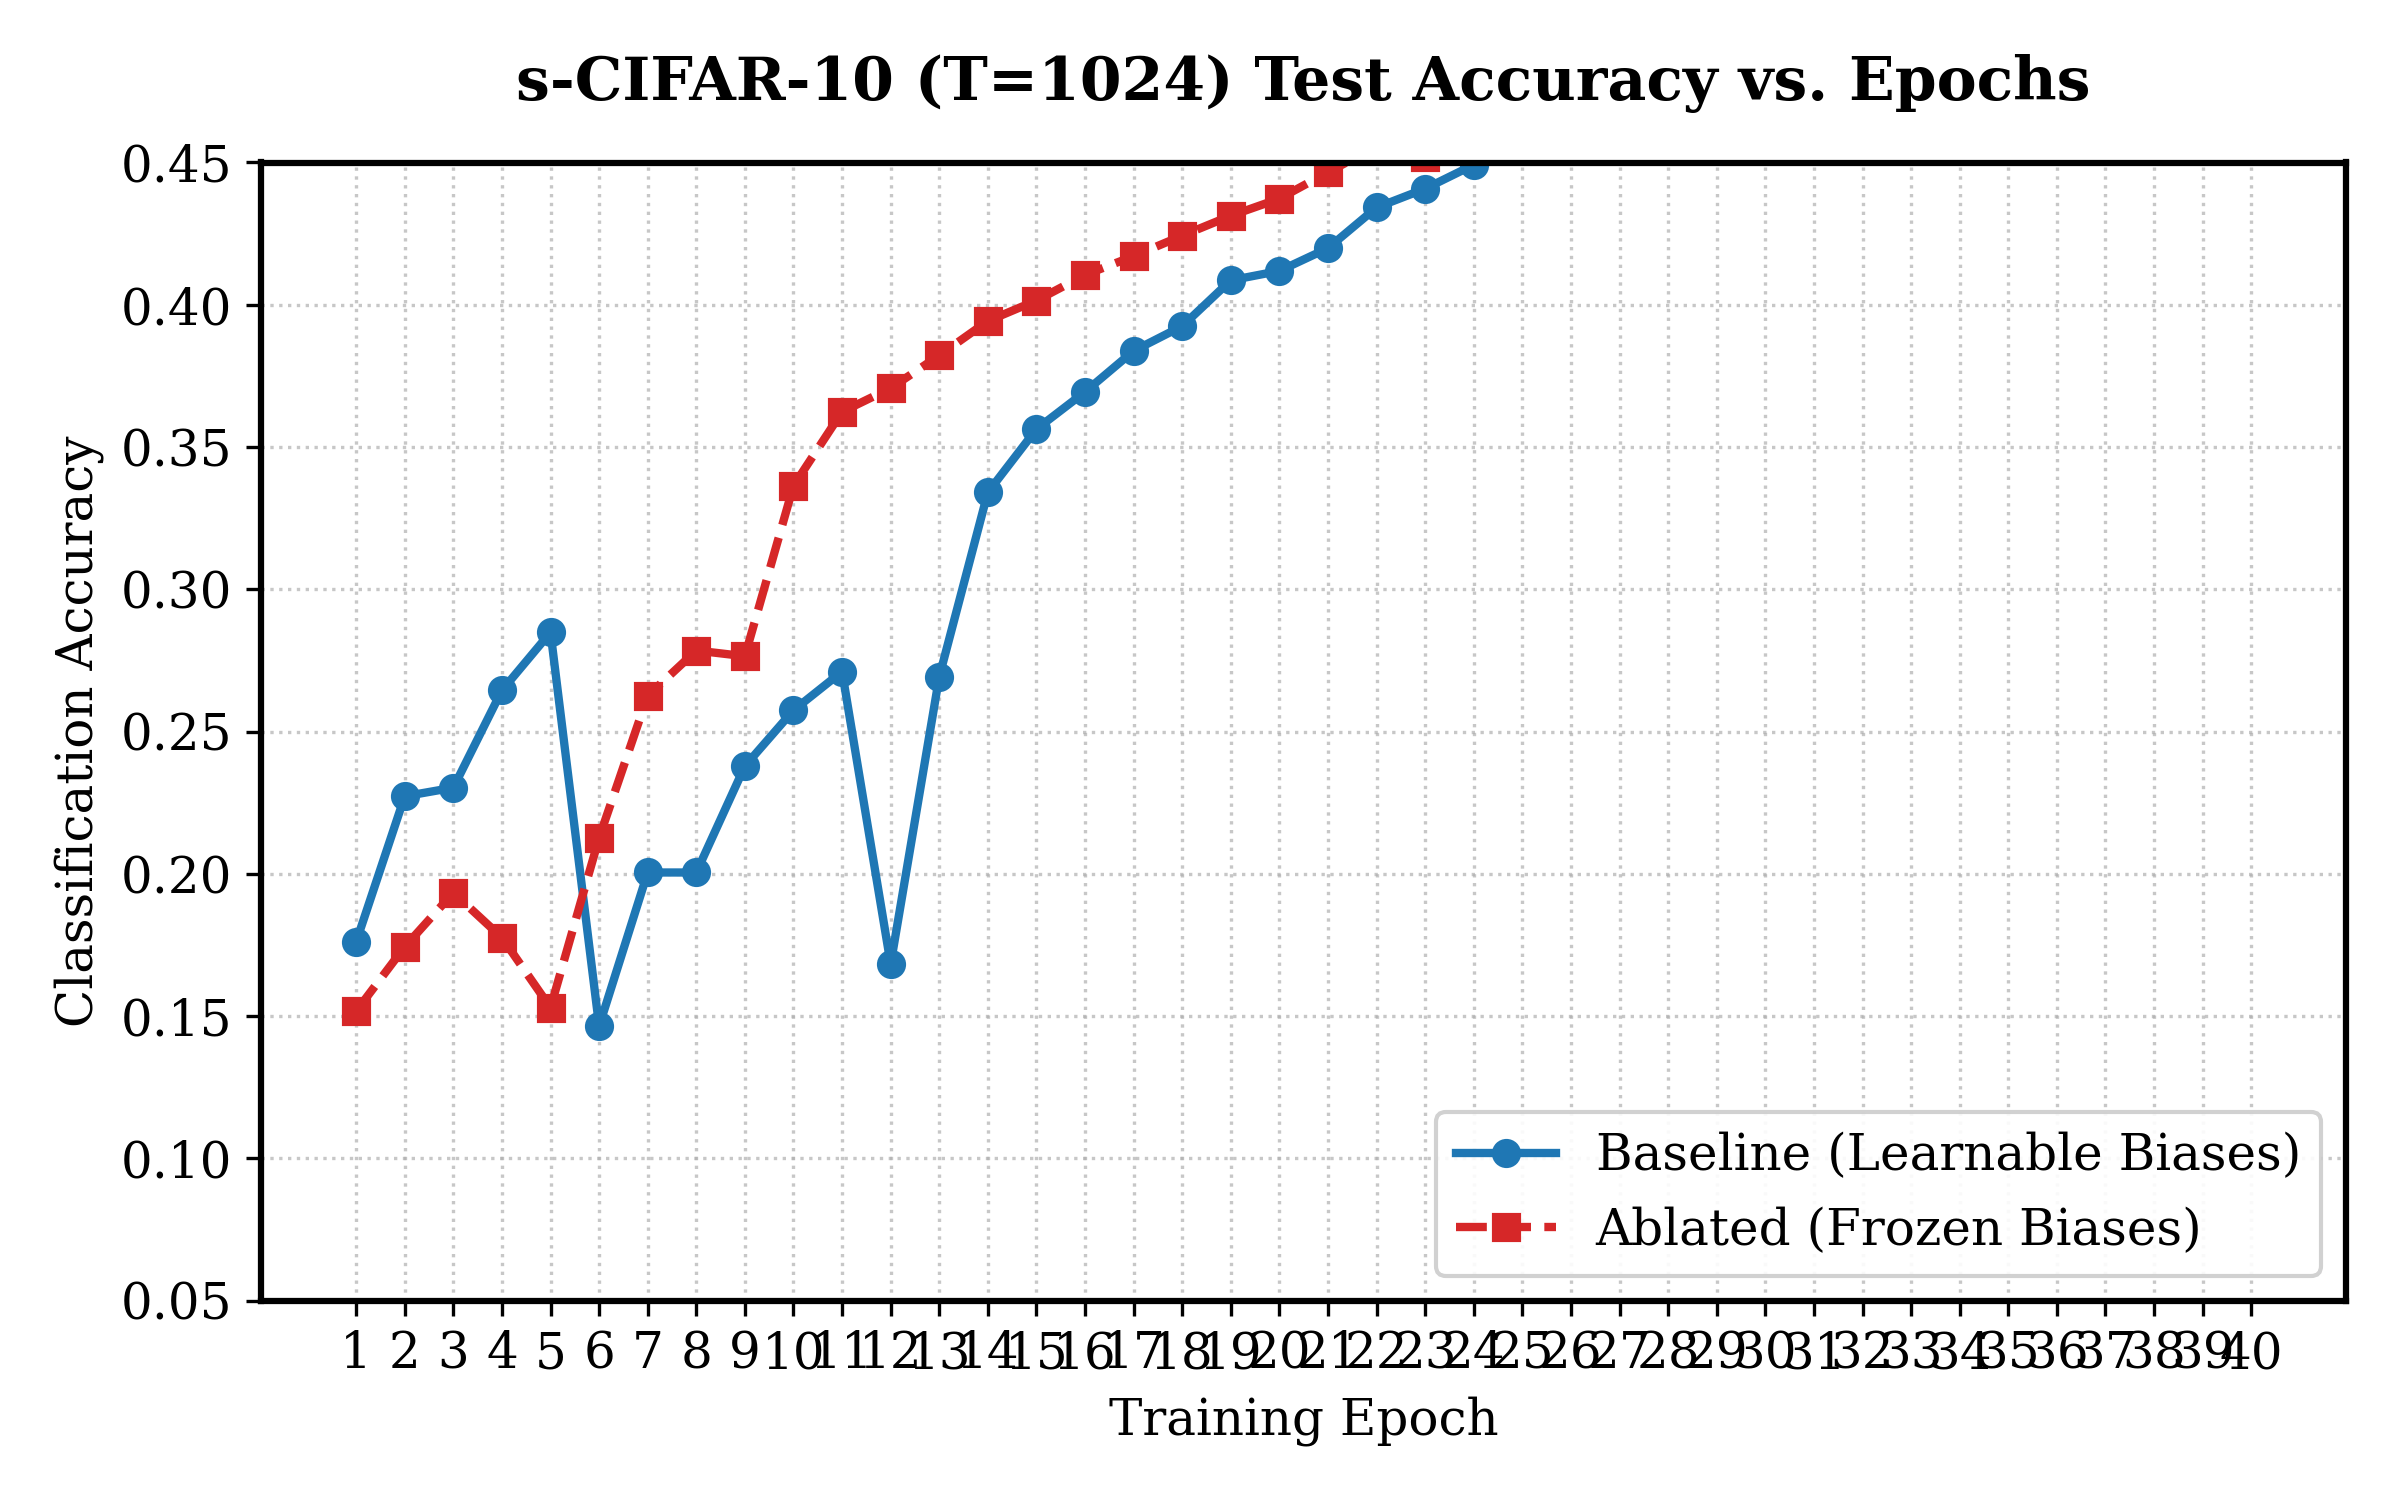
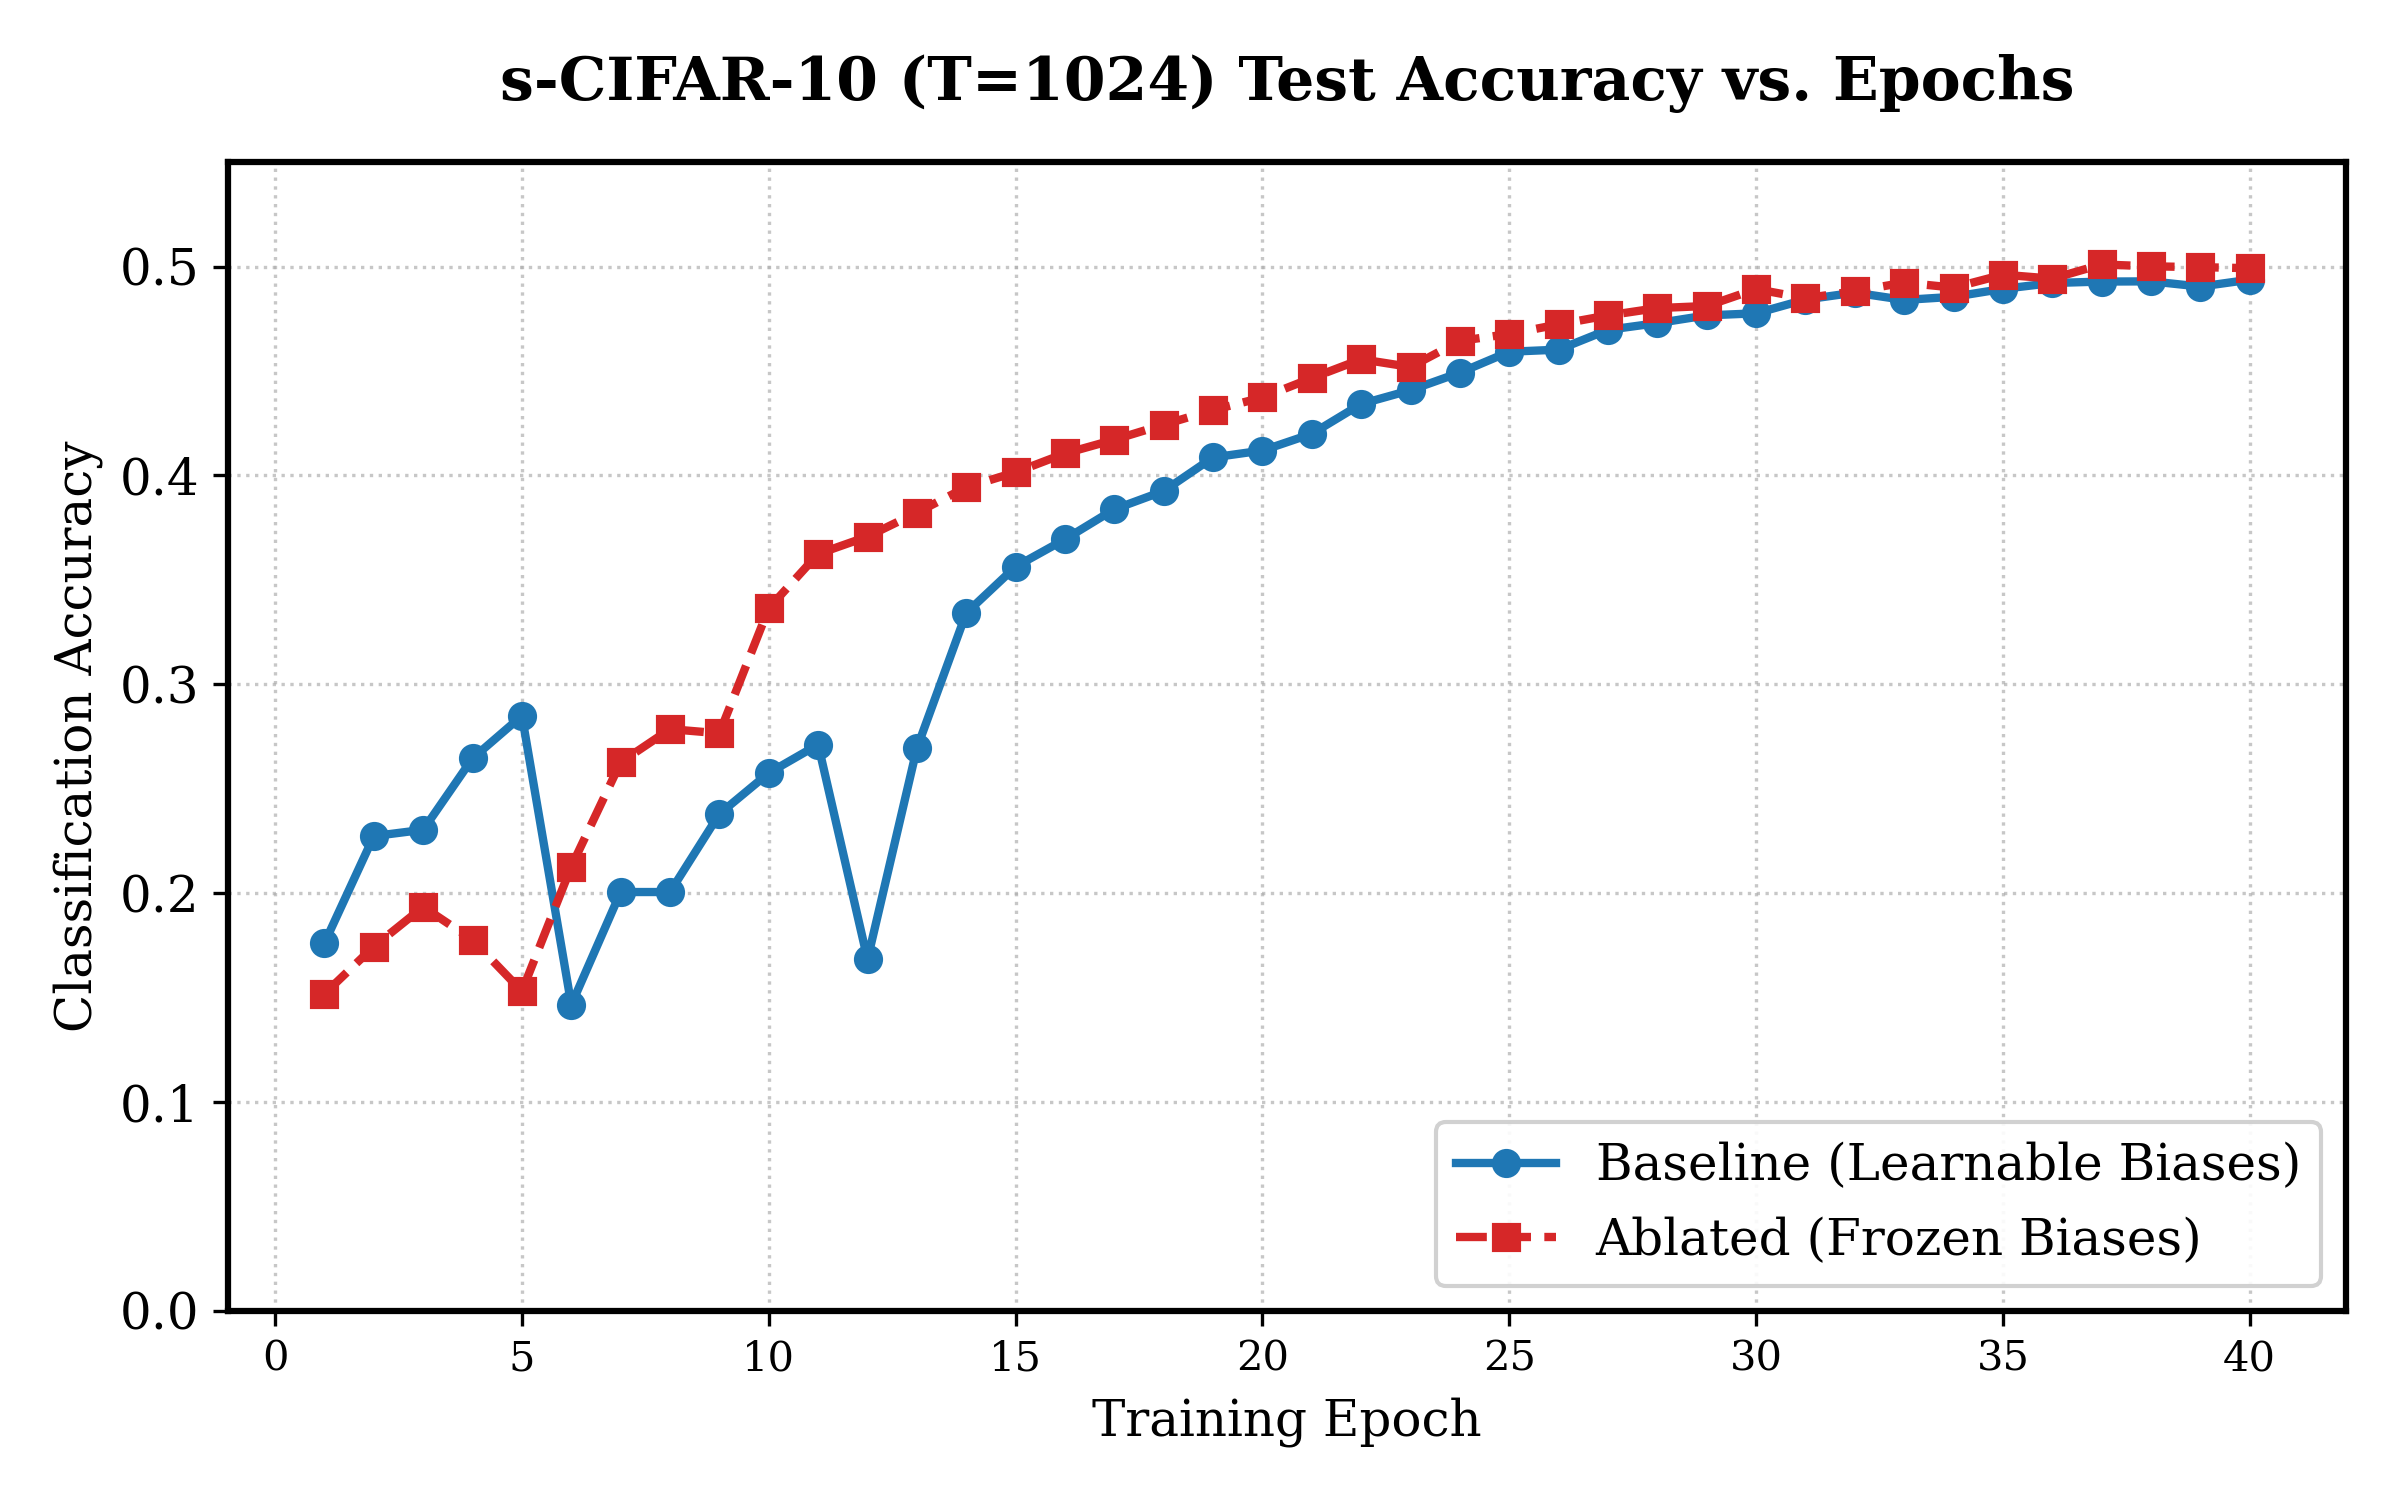
Cleaned up plotting and fixed labeling. Fixed directions in scripts/run.py.

diff --git a/scripts/plot.py b/scripts/plot.py
@@ -31,8 +31,9 @@ def plot_academic_results(results, save_dir='./docs/report/figures'):
     ax.set_title('s-CIFAR-10 (T=1024) Test Accuracy vs. Epochs', pad=15, fontweight='bold')
     ax.set_xlabel('Training Epoch')
     ax.set_ylabel('Classification Accuracy')
-    ax.set_ylim([0.05, 0.45])
-    ax.set_xticks(epochs)
+    ax.set_ylim([0.00, 0.55])
+    ax.set_xticks(range(0,41,5))
+    ax.tick_params(axis='x', labelsize=10)
     ax.grid(True, linestyle=':', alpha=0.7)
     ax.legend(loc='lower right', framealpha=0.9)
     
@@ -51,7 +52,8 @@ def plot_academic_results(results, save_dir='./docs/report/figures'):
     ax.set_title('s-CIFAR-10 Training Loss Landscape', pad=15, fontweight='bold')
     ax.set_xlabel('Training Epoch')
     ax.set_ylabel('Cross Entropy Loss')
-    ax.set_xticks(epochs)
+    ax.set_xticks(range(0,41,5))
+    ax.tick_params(axis='x', labelsize=10)
     ax.grid(True, linestyle=':', alpha=0.7)
     ax.legend(loc='upper right', framealpha=0.9)
     

diff --git a/scripts/run.py b/scripts/run.py
@@ -69,7 +69,7 @@ def main():
         json.dump(results, f, indent=4)
     
     print(f"\nExperiments complete; results saved to {results_path}.")
-    print("Now please run `scripts/plot_results.py` to generate figures.")
+    print("Now please run `scripts/plot.py` to generate figures.")
 
 if __name__ == "__main__":
     main()
